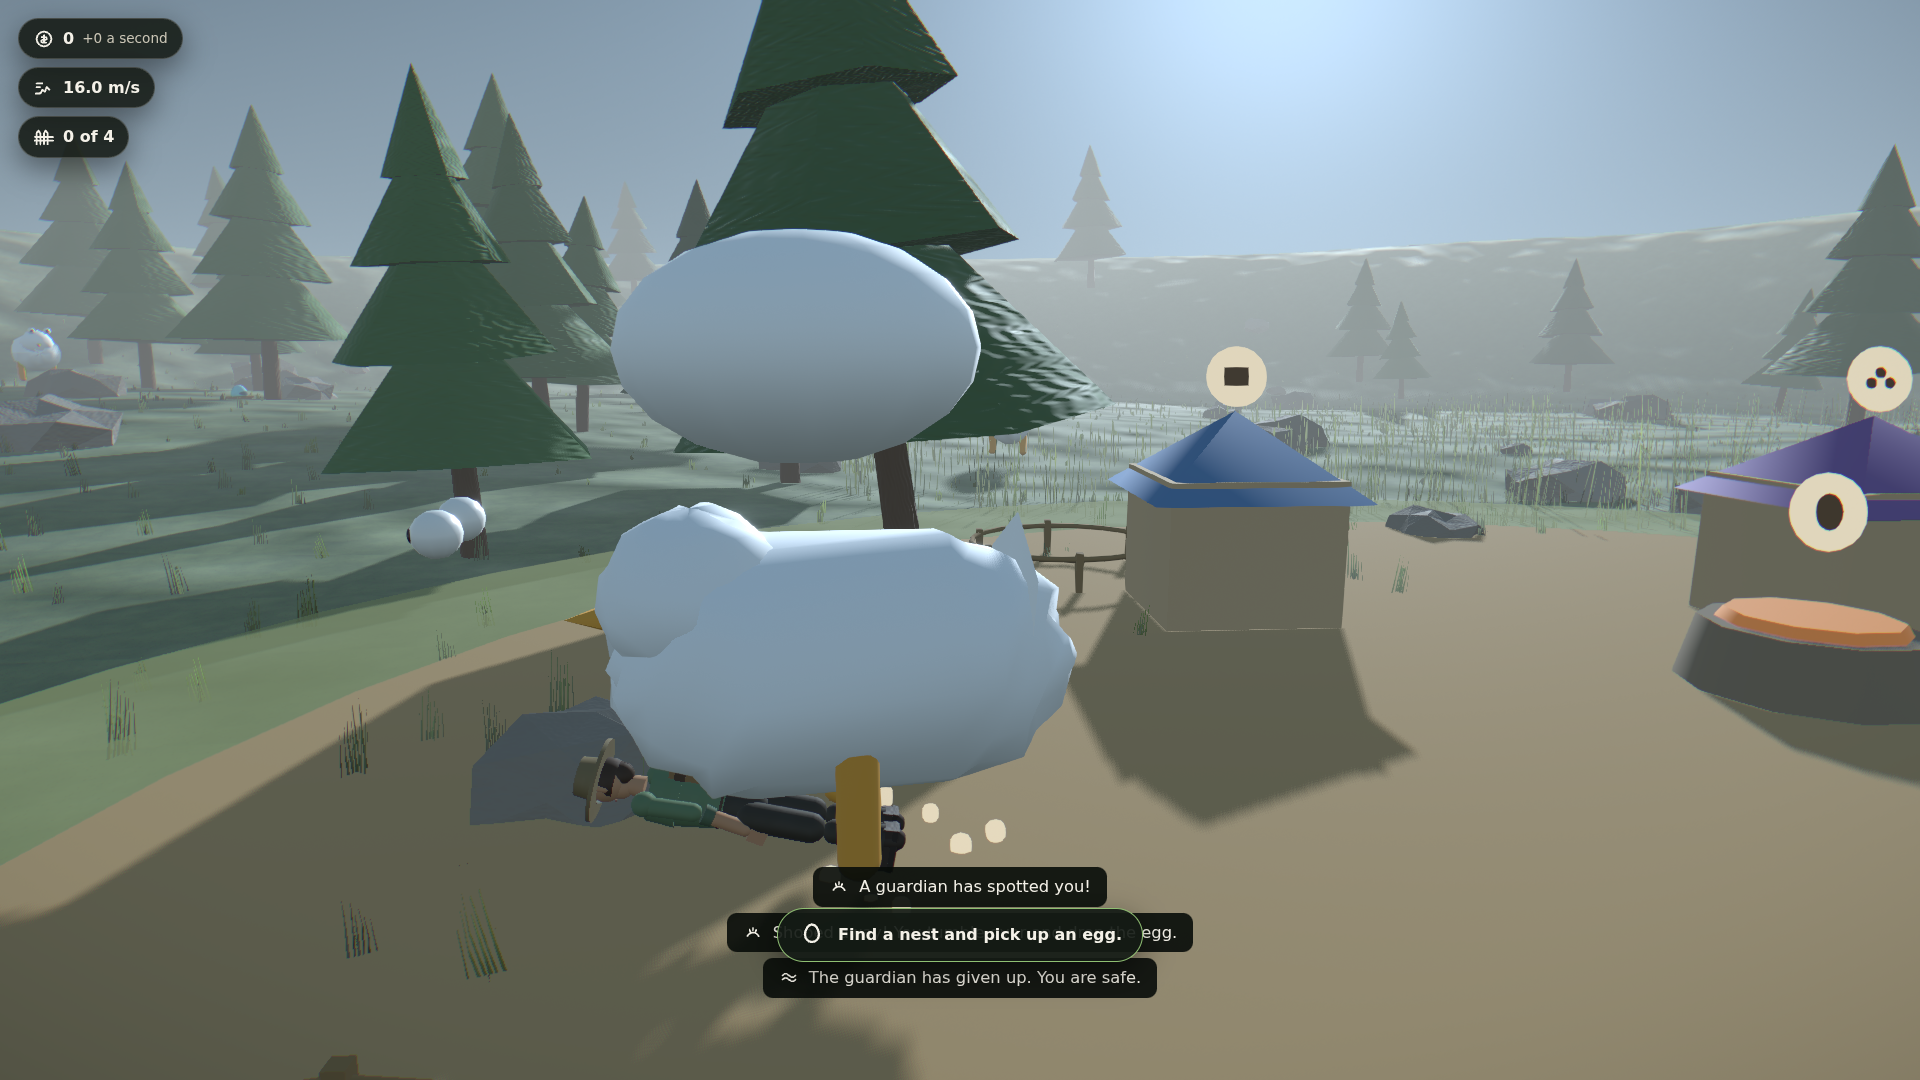
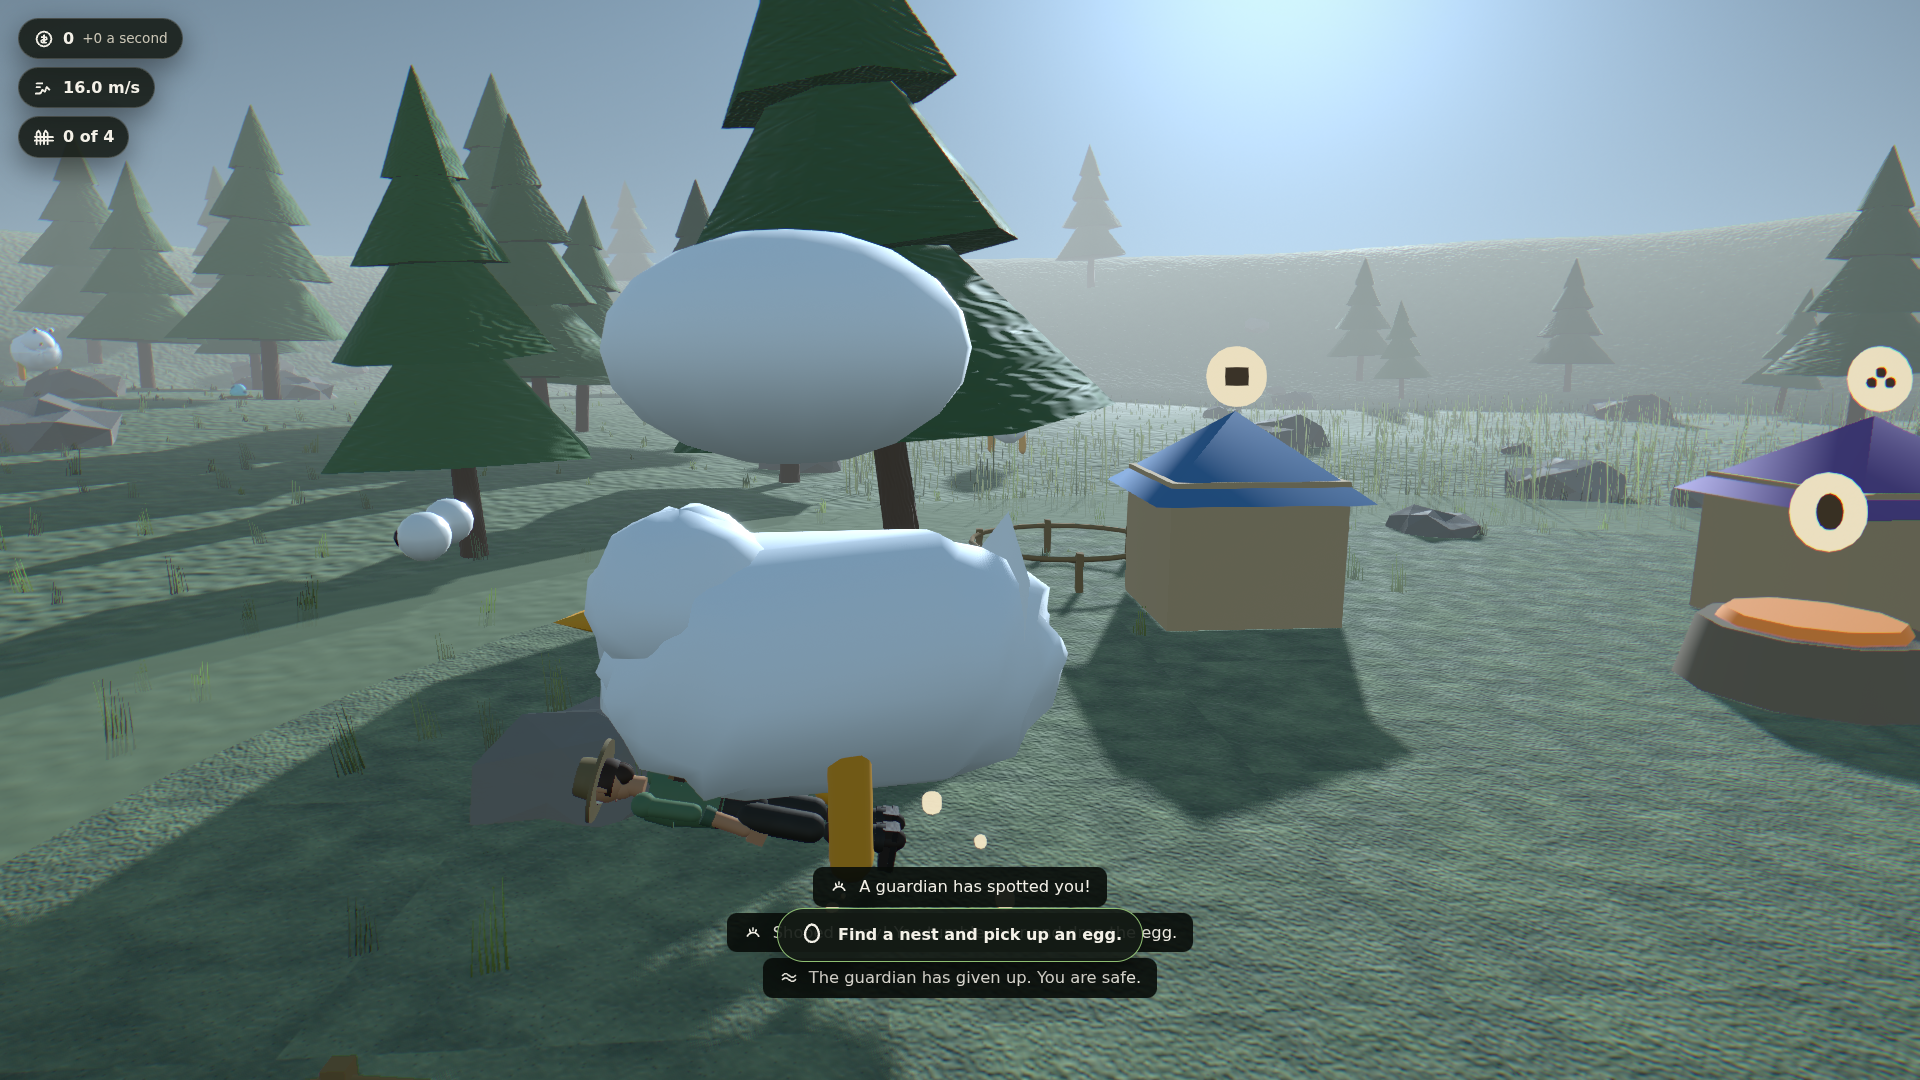
feat(render): texture the ground and grade the image
Two visual tells left from the playtest, both bigger than they sound.

The sanctuary clearing was a solid fill: one circle, one hex colour, no
albedo, normal or roughness map. Foliage is excluded from the sanctuary,
so it is also the largest uninterrupted surface in the game -- about two
hundred square metres of flat #b39468 in the middle of every screenshot,
exactly where the camera spends its time. It now uses the same procedural
maps as the terrain, tiled for close viewing.

It also takes its colours from the biome now. One fixed brown read as a
patch dropped onto the Dunes' pale sand; trodden earth is just the local
soil compacted, so it is the biome's own ground colour darkened, with a
wider soft edge to kill the seam.

And nothing graded the image. The post chain had ambient occlusion,
bloom, motion blur, antialiasing, grain, chromatic aberration and a
vignette -- and no colour grade. ACES rolls the highlights off correctly
and leaves the midtones flat, so every frame was an ungraded log image.
That is most of what "amateurish" means once the geometry and lighting
are fine, and it is invisible until you see a graded frame beside it.

Contrast and saturation per biome: the Glade takes the most because a
warm dawn carries it, Mirrormere the least contrast because the mist is
the point, the Dunes least of all since bare sand under a hard sun is
already contrasty.

High still measures 370 draw calls against the 450 budget.
[…]

diff --git a/src/render/world/Sanctuary.tsx b/src/render/world/Sanctuary.tsx
@@ -10,8 +10,8 @@
 
 import { CuboidCollider, RigidBody } from '@react-three/rapier';
 import { useFrame } from '@react-three/fiber';
-import { useMemo, useRef } from 'react';
-import { MathUtils, type Group, type Mesh } from 'three';
+import { useEffect, useMemo, useRef } from 'react';
+import { MathUtils, MeshStandardMaterial, type Group, type Mesh } from 'three';
 import { EGG, WORLD } from '../../data/balance';
 import type { OwnedCreature } from '../../sim/types';
 import { requireSpecies } from '../../data/creatures';
@@ -20,11 +20,30 @@ import { useEggMaterial } from '../entities/EggEntity';
 import type { EggInIncubator } from '../../sim/types';
 import { CreatureInHabitat } from '../entities/CreatureInHabitat';
 import { fenceGeometry } from './fenceGeometry';
+import { groundAlbedo, microNormal, roughnessMap } from '../materials/proceduralTextures';
 
 export const SANCTUARY_RADIUS = 11;
 
+/** Multiply a hex colour's channels, for "the same earth but walked on". */
+function shade(hex: string, factor: number): string {
+  const n = Number.parseInt(hex.slice(1), 16);
+  const ch = (shift: number): number =>
+    Math.max(0, Math.min(255, Math.round(((n >> shift) & 255) * factor)));
+  return `#${((ch(16) << 16) | (ch(8) << 8) | ch(0)).toString(16).padStart(6, '0')}`;
+}
+
 export interface SanctuaryProps {
   groundY: number;
+  /**
+   * The biome's own soil colours.
+   *
+   * The clearing is trodden earth, and trodden earth is whatever the ground
+   * around it is made of, compacted. Painted one fixed brown it read as a
+   * patch dropped onto the Dunes' pale sand -- a visible seam on the largest
+   * flat surface in the game.
+   */
+  groundLow: string;
+  groundMid: string;
   incubator: EggInIncubator | null;
   creatures: readonly OwnedCreature[];
   habitatSlots: number;
@@ -74,11 +93,43 @@ export const STATIONS: readonly Station[] = [
 
 export function Sanctuary({
   groundY,
+  groundLow,
+  groundMid,
   incubator,
   creatures,
   habitatSlots,
   activeStation,
 }: SanctuaryProps): React.ReactElement {
+  /*
+   * Trodden earth, textured rather than painted.
+   *
+   * Tiled tightly (repeat 9) because this surface is walked on at close
+   * range: at the terrain's own scale a two-hundred square metre disc shows
+   * about one texel of variation and looks exactly as flat as a solid fill.
+   */
+  const clearingMaterial = useMemo(() => {
+    // Darker and a touch less saturated than the surrounding soil: the same
+    // earth, walked on.
+    const albedo = groundAlbedo(`sanctuary-${groundLow}`, shade(groundLow, 0.82), groundMid);
+    albedo.repeat.set(9, 9);
+    const rough = roughnessMap(`sanctuary-${groundLow}`, 0.94, 0.12);
+    rough.repeat.set(9, 9);
+    const normal = microNormal();
+    normal.repeat.set(9, 9);
+    const mat = new MeshStandardMaterial({
+      map: albedo,
+      normalMap: normal,
+      roughnessMap: rough,
+      roughness: 1,
+      metalness: 0,
+      dithering: true,
+    });
+    mat.normalScale.set(0.7, 0.7);
+    return mat;
+  }, [groundLow, groundMid]);
+
+  useEffect(() => () => clearingMaterial.dispose(), [clearingMaterial]);
+
   const habitatPositions = useMemo(() => {
     // A gentle arc in front of the sanctuary, so the collection is the first
     // thing you see when you come home with an egg.
@@ -96,17 +147,27 @@ export function Sanctuary({
     <group position={[0, groundY, 0]}>
       {/*
         A trodden clearing, so the ground reads as "somewhere people are".
-        Warm bare earth rather than the neutral tan it started as -- against
-        the biome's greens a neutral read as flat grey.
+
+        This was a single flat colour with no maps of any kind, and because
+        foliage is excluded from the sanctuary it is also the largest bare
+        surface in the game -- a couple of hundred square metres of unbroken
+        #b39468 sitting in the middle of every screenshot. It is the single
+        biggest reason the game read as unfinished. It now uses the same
+        procedural albedo, normal and roughness the terrain does.
       */}
       <mesh rotation={[-Math.PI / 2, 0, 0]} position={[0, 0.02, 0]} receiveShadow>
         <circleGeometry args={[SANCTUARY_RADIUS, 40]} />
-        <meshStandardMaterial color="#b39468" roughness={0.96} />
+        <primitive object={clearingMaterial} attach="material" />
       </mesh>
       {/* A soft edge, so the clearing does not end on a hard circle. */}
       <mesh rotation={[-Math.PI / 2, 0, 0]} position={[0, 0.015, 0]} receiveShadow>
-        <ringGeometry args={[SANCTUARY_RADIUS - 0.6, SANCTUARY_RADIUS + 2.6, 40]} />
-        <meshStandardMaterial color="#93975e" roughness={0.97} transparent opacity={0.7} />
+        <ringGeometry args={[SANCTUARY_RADIUS - 1.4, SANCTUARY_RADIUS + 3.4, 44]} />
+        <meshStandardMaterial
+          color={shade(groundMid, 0.94)}
+          roughness={0.97}
+          transparent
+          opacity={0.72}
+        />
       </mesh>
 
       <Incubator

diff --git a/src/data/biomes.ts b/src/data/biomes.ts
@@ -57,6 +57,21 @@ export interface BiomeLighting {
   readonly exposure: number;
   readonly volumetricStrength: number;
   readonly bloomIntensity: number;
+  /**
+   * Colour grade, applied at the end of the post chain.
+   *
+   * ACES already rolls the highlights off, which is correct and also leaves
+   * the midtones sitting flat -- the whole frame reads as a log image nobody
+   * graded, which is most of what "amateurish" means when the geometry and
+   * the lighting are fine. A little contrast puts the blacks back and a
+   * little saturation stops the palette washing out into the fog.
+   *
+   * Per biome, because the three want different things: the Glade is a warm
+   * dawn and can take a push, Mirrormere is deliberately misty and must not
+   * be crushed into a postcard, the Dunes are already high contrast.
+   */
+  readonly contrast: number;
+  readonly saturation: number;
 }
 
 export interface BiomeTerrain {
@@ -168,6 +183,8 @@ export const BIOME_DEFS: Record<BiomeId, BiomeDef> = {
       exposure: 1.0,
       volumetricStrength: 0.85,
       bloomIntensity: 0.42,
+      contrast: 0.14,
+      saturation: 0.13,
     },
     terrain: {
       size: 150,
@@ -296,6 +313,10 @@ export const BIOME_DEFS: Record<BiomeId, BiomeDef> = {
       exposure: 1.05,
       volumetricStrength: 1.15,
       bloomIntensity: 0.5,
+      // Gentler: the mist is the point here, and crushing it turns a
+      // deliberately soft biome into a postcard.
+      contrast: 0.09,
+      saturation: 0.08,
     },
     terrain: {
       size: 165,
@@ -412,6 +433,10 @@ export const BIOME_DEFS: Record<BiomeId, BiomeDef> = {
       exposure: 0.95,
       volumetricStrength: 0.3,
       bloomIntensity: 0.55,
+      // Already a high-contrast biome -- bare sand under a hard sun -- so it
+      // needs the least help of the three.
+      contrast: 0.07,
+      saturation: 0.1,
     },
     terrain: {
       size: 180,

diff --git a/src/render/post/PostChain.tsx b/src/render/post/PostChain.tsx
@@ -24,6 +24,8 @@ import {
   DepthOfField,
   EffectComposer,
   GodRays,
+  BrightnessContrast,
+  HueSaturation,
   Noise,
   SMAA,
   SSAO,
@@ -199,6 +201,21 @@ export function PostChain({
       ) : (
         <></>
       )}
+
+      {/*
+        The grade, last before the vignette.
+
+        ACES rolls the highlights off correctly and leaves the midtones flat,
+        so without this the frame reads as an ungraded log image -- which is
+        most of what "amateurish" means once the geometry and the lighting are
+        already fine. Contrast puts the blacks back under the trees;
+        saturation stops the palette washing out into the fog.
+
+        Both come from the biome, because the three want different amounts:
+        see `contrast` and `saturation` in biomes.ts.
+      */}
+      <BrightnessContrast brightness={0} contrast={lighting.contrast} />
+      <HueSaturation hue={0} saturation={lighting.saturation} />
 
       {quality.vignette ? <Vignette offset={0.32} darkness={0.25} eskil={false} /> : <></>}
     </EffectComposer>

diff --git a/src/render/BiomeRuntime.tsx b/src/render/BiomeRuntime.tsx
@@ -442,6 +442,8 @@ export function BiomeRuntime({
 
       <Sanctuary
         groundY={sanctuaryGround}
+        groundLow={BIOME_DEFS[biome].terrain.groundColourLow}
+        groundMid={BIOME_DEFS[biome].terrain.groundColourMid}
         incubator={save.incubator}
         creatures={save.creatures}
         habitatSlots={habitatSlots(save.upgrades)}

diff --git a/DECISIONS.md b/DECISIONS.md
@@ -524,6 +524,36 @@ High measured 373 draw calls against the 450 budget afterwards, and fewer
 triangles than before, because the conifers are cheaper than the sphere stacks
 they replaced.
 
+### The ground, and the grade
+
+Two more tells, both larger than they sound.
+
+**The sanctuary clearing was a solid fill.** One `circleGeometry`, one hex
+colour, no albedo map, no normal map, no roughness map. Foliage is excluded
+from the sanctuary, so it is also the largest uninterrupted surface in the
+game -- roughly two hundred square metres of flat `#b39468` sitting in the
+middle of every screenshot, right where the camera spends most of its time.
+It now uses the same procedural albedo, normal and roughness as the terrain.
+
+It also takes its colours from the biome. Painted one fixed brown it read as
+a patch dropped onto the Dunes' pale sand; trodden earth is whatever the local
+soil is, compacted, so it is now the biome's own ground colour darkened, with
+a wider soft edge.
+
+**Nothing graded the image.** The post chain had ambient occlusion, bloom,
+motion blur, antialiasing, grain, chromatic aberration and a vignette -- and
+no colour grade at all. ACES rolls the highlights off correctly and leaves the
+midtones flat, so every frame was effectively an ungraded log image. That is
+most of what "amateurish" means once the geometry and the lighting are already
+fine, and it is invisible in isolation: you only see it next to a graded
+frame.
+
+A little contrast and saturation, per biome, at the end of the chain. Whisper
+Glade takes the most (0.14 / 0.13) because a warm dawn can carry it;
+Mirrormere the least contrast (0.09) because the mist is the point and
+crushing it turns a deliberately soft biome into a postcard; the Dunes are
+already high contrast and need only 0.07.
+
 ## Performance — measuring the budget properly
 
 ### Reading the counters at all
